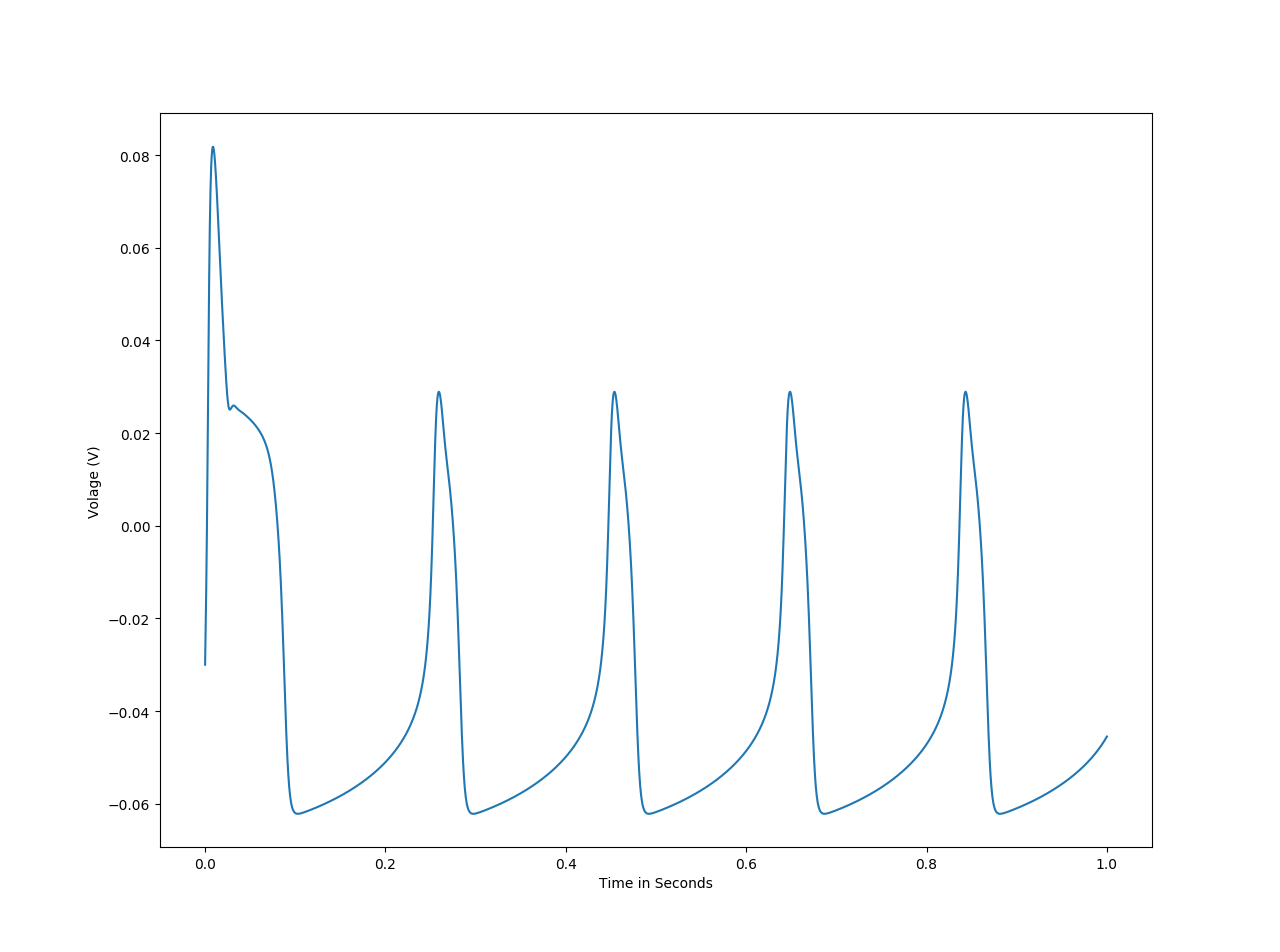
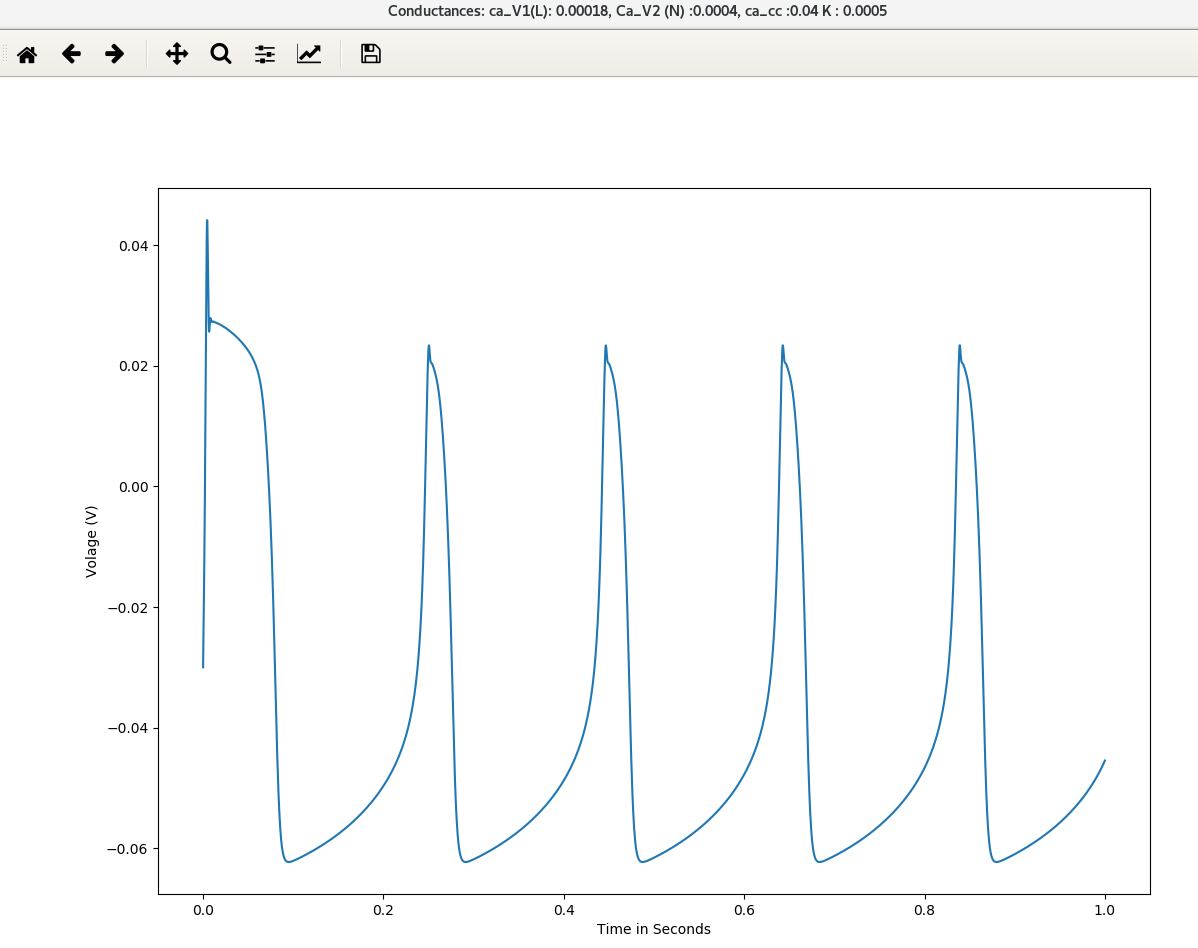
Added chirp signal code to repository.

diff --git a/NEUR634_homework/project/simple_model_chrp.py b/NEUR634_homework/project/simple_model_chrp.py
@@ -32,7 +32,7 @@ def chirp(gen_name="chirp", amp=1, f0=1, f1=50, T=0.8, start=0.1, end=0.5, simdt
     chirper = moose.element('/chirpgen') if moose.exists('/chirpgen') else moose.Neutral('/chirpgen')
     func_1 = moose.Func(chirper.path+'/'+gen_name)
     func_1.mode = 3
-    func_1.expr = '{A}*cos(2*pi*({f1}-{f0})/{T}*x^2 + 2*pi*{f1}*x + {p})+{o}'.format(f0=f0, f1=f1, T=T, A=amp, p=phase, o=amp_offset)
+    func_1.expr = '{A}*cos(2*pi*(({f1}-{f0})/{T})*x^2 + 2*pi*{f1}*x + {p})+{o}'.format(f0=f0, f1=f1, T=T, A=amp, p=phase, o=amp_offset)
     input = moose.StimulusTable(chirper.path+'/xtab')
     xarr = np.arange(start, end, simdt)
     input.vector = xarr
@@ -110,15 +110,20 @@ def main(model_name, comp_passive, channel_settings, ca_params):
     diameter = 20e-6
     length = 20e-6
 
+    inj_delay = 20E-3
+    inj_amp = 1E-9 #0
+    inj_width = 500E-3
+
+
 
     # Model creation
     soma, moose_paths = simple_model(model_name, comp_passive, channel_settings, ca_params, length, diameter)
-    # chirp_test = chirp(gen_name="chirp",amp=1E-9, f0=0.1, f1=500, T=0.8, start=inj_delay, end=inj_width+inj_delay, simdt=simdt,amp_offset=5E-9)
-
-    # moose.connect(chirp_test, 'valueOut', soma, 'injectMsg')
+    chirp_test = chirp(gen_name="chirp",amp=inj_amp, f0=0.1, f1=20, T=0.1, start=inj_delay, end=inj_width+inj_delay, simdt=simdt,amp_offset=0)
+    moose.connect(chirp_test, 'valueOut', soma, 'injectMsg')
     # Output table
     tabs = creat_moose_tables()
-    # moose.connect(soma_i_table, 'requestOut', chirp_test, 'getValue')
+    soma_c_table = create_output_table(table_element='/output', table_name='somchirpIm')
+    moose.connect(soma_c_table, 'requestOut', chirp_test, 'getValue')
 
     # Set moose simulation clocks
     for lable in range(7):
@@ -129,20 +134,15 @@ def main(model_name, comp_passive, channel_settings, ca_params):
     moose.reinit()
     moose.start(simtime)
 
-    # Plot output tables.
-    #v_plot = plot_vm_table(simtime,soma_v_table, soma_i_table, title="soma vs i")
-    #plt.grid(True)
-    #plt.legend(['v', 'i'])
-    #plt.show()
     # set conductance for a list to Ca_v1, Ca_V2 and CC
     from collections import namedtuple
     cond = namedtuple('cond', 'k Ltype Ntype cl')
-    test_conductances = [cond(k=0.5E-3, Ltype=0.18E-3, Ntype=0.4E-3, cl=40E-3),  # control test
-                         cond(k=0.5E-3, Ltype=0.18E-3, Ntype=0, cl=40E-3),  # L-type frequecy reduce test
-                         cond(k=0.5E-3, Ltype=0, Ntype=0.4E-3, cl=40E-3),  # N-type amplitude reduce test
-                         cond(k=0.5E-3, Ltype=0.18E-3, Ntype=0.4E-3, cl=0),   # cl-type Current abolish test
-                         cond(k=0.5E-3 * 0.2, Ltype=0.18E-3, Ntype=0.4E-3, cl=40E-3)    # K AHP reduce test
-                         ]
+    test_conductances = [cond(k=0.5E-3, Ltype=0.18E-3, Ntype=0.4E-3, cl=40E-3)]  # control test
+                         # cond(k=0.5E-3, Ltype=0.18E-3, Ntype=0, cl=40E-3),  # L-type frequecy reduce test
+                         # cond(k=0.5E-3, Ltype=0, Ntype=0.4E-3, cl=40E-3),  # N-type amplitude reduce test
+                         # cond(k=0.5E-3, Ltype=0.18E-3, Ntype=0.4E-3, cl=0),   # cl-type Current abolish test
+                         # cond(k=0.5E-3 * 0.2, Ltype=0.18E-3, Ntype=0.4E-3, cl=40E-3)    # K AHP reduce test
+                         # ]
 
     for K, V1, V2, cc in test_conductances:
         moose.element('/soma/K').Gbar = K * compute_comp_area(length, diameter)[0] *1E4
@@ -155,6 +155,10 @@ def main(model_name, comp_passive, channel_settings, ca_params):
         plot_vm_table(simtime, tabs['vm'][0], title='Conductances: ca_V1(L): {1}, Ca_V2 (N) :{0}, ca_cc :{2} K : {3}'.format(V1, V2, cc, K), xlab="Time in Seconds", ylab="Volage (V)")
         plt.show()
 
+    # plot chirp signal
+    plt.plot(soma_c_table.vector)
+    plt.show()
+
     # from moose_nerp.graph import plot_channel
     # for channel in channel_settings:
     #     libchan=moose.element('/library/soma/'+channel)
@@ -164,5 +168,5 @@ def main(model_name, comp_passive, channel_settings, ca_params):
 if __name__ == "__main__":
     model_name = 'soma'
     channel_settings = channel_settings
-    comp_passive = {'RM':1/(0.06E-3 * 1E4), 'CM': 1E-6 * 1E4,'RA':4, 'EM': -30e-3} # check with Dan????
+    comp_passive = {'RM':1/(0.06E-3 * 1E4), 'CM': 1E-6 * 1E4,'RA':4, 'EM': -70e-3} # check with Dan????
     main(model_name, comp_passive, channel_settings, ca_params=ca_params)
